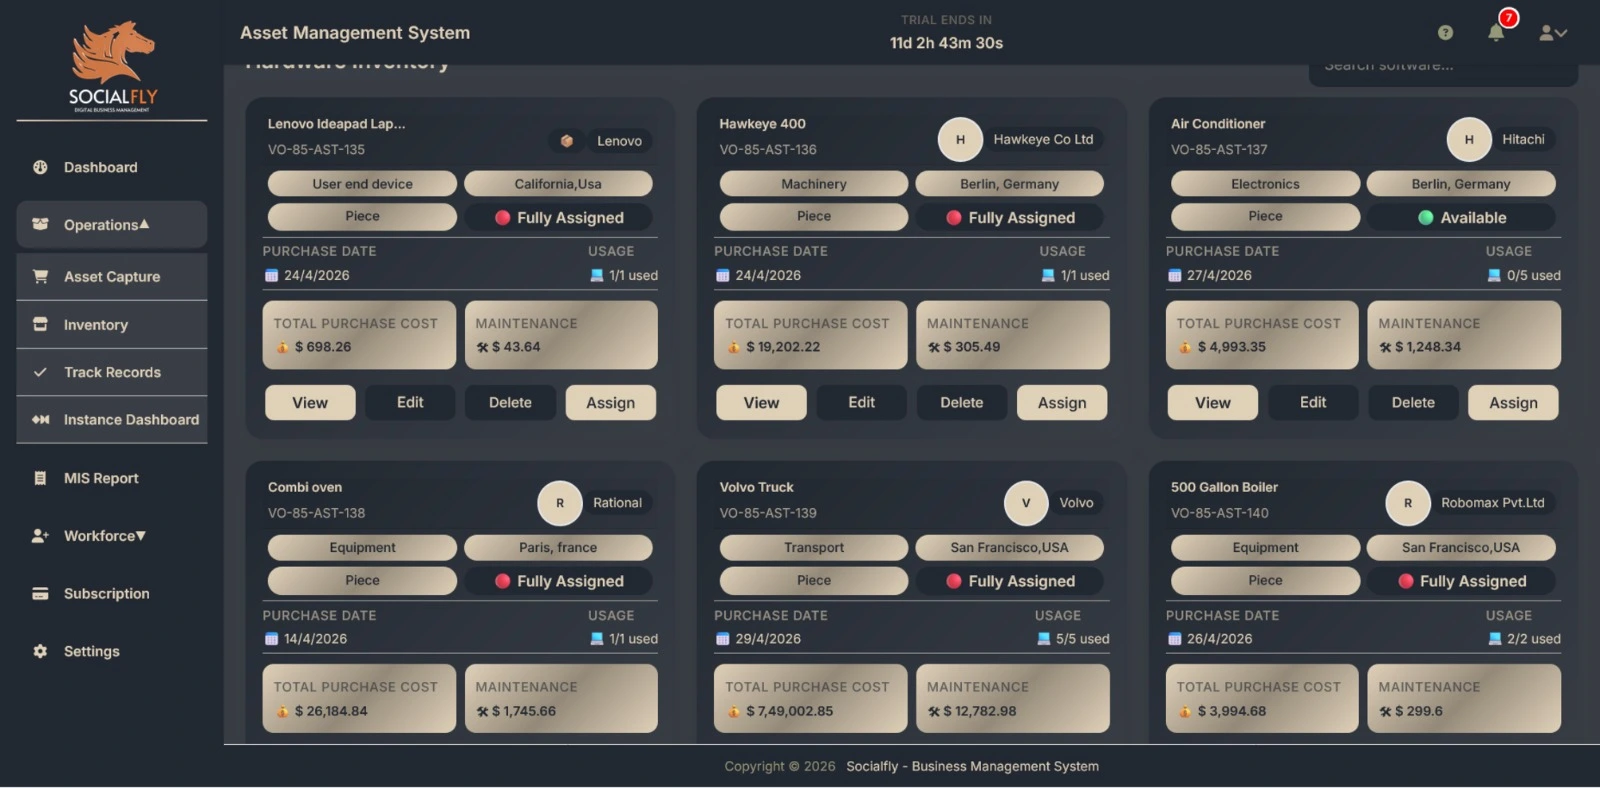
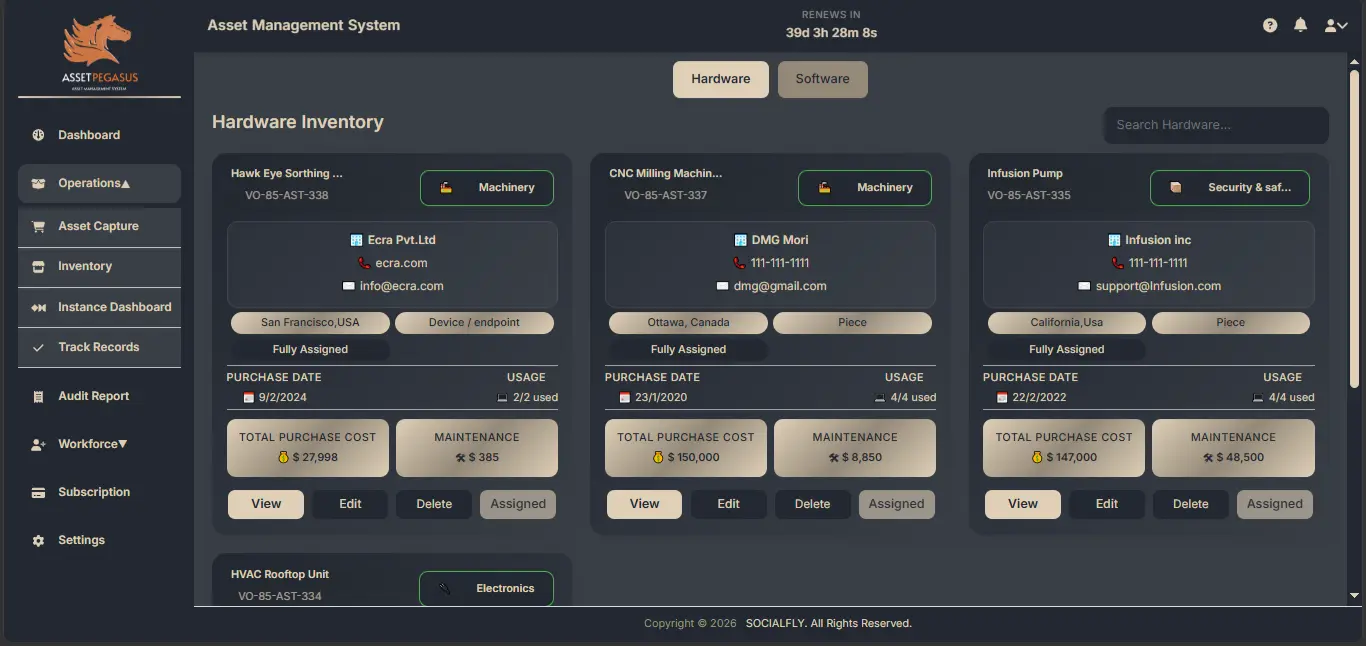
Fixing affiliate issues

diff --git a/backend/controllers/superAdmin/organizationController.js b/backend/controllers/superAdmin/organizationController.js
@@ -1,10 +1,14 @@
 const Organization = require("../../models/Organization");
 const User = require("../../models/User");
-
+const AssetInstance = require("../models/AssetInstance");
 /* ================= GET ALL (WITH USER COUNT) ================= */
 const getAllOrganizations = async (req, res) => {
   try {
     const organizations = await Organization.aggregate([
+      /* =====================================================
+         USERS
+      ===================================================== */
+
       {
         $lookup: {
           from: "users",
@@ -13,29 +17,172 @@ const getAllOrganizations = async (req, res) => {
           as: "users"
         }
       },
+
+      /* =====================================================
+         ASSET INSTANCES
+         
+         Count:
+         - Total instances
+         - Hardware instances
+         - Software instances
+      ===================================================== */
+
+      {
+        $lookup: {
+          from: "assetinstances",
+
+          let: {
+            orgId: "$_id"
+          },
+
+          pipeline: [
+            {
+              $match: {
+                $expr: {
+                  $eq: [
+                    "$organizationId",
+                    "$$orgId"
+                  ]
+                }
+              }
+            },
+
+            {
+              $group: {
+                _id: null,
+
+                total: {
+                  $sum: 1
+                },
+
+                hardware: {
+                  $sum: {
+                    $cond: [
+                      {
+                        $eq: [
+                          "$assetType",
+                          "hardware"
+                        ]
+                      },
+                      1,
+                      0
+                    ]
+                  }
+                },
+
+                software: {
+                  $sum: {
+                    $cond: [
+                      {
+                        $eq: [
+                          "$assetType",
+                          "software"
+                        ]
+                      },
+                      1,
+                      0
+                    ]
+                  }
+                }
+              }
+            }
+          ],
+
+          as: "assetStats"
+        }
+      },
+
+      /* =====================================================
+         COUNTS
+      ===================================================== */
+
       {
         $addFields: {
-          userCount: { $size: "$users" },
+          userCount: {
+            $size: "$users"
+          },
 
-          // 👇 force inactive if no users
+          assetCount: {
+            $ifNull: [
+              {
+                $arrayElemAt: [
+                  "$assetStats.total",
+                  0
+                ]
+              },
+              0
+            ]
+          },
+
+          hardwareAssetCount: {
+            $ifNull: [
+              {
+                $arrayElemAt: [
+                  "$assetStats.hardware",
+                  0
+                ]
+              },
+              0
+            ]
+          },
+
+          softwareAssetCount: {
+            $ifNull: [
+              {
+                $arrayElemAt: [
+                  "$assetStats.software",
+                  0
+                ]
+              },
+              0
+            ]
+          },
+
+          /* =================================================
+             EFFECTIVE ORGANIZATION STATUS
+
+             If organization has no users,
+             force status to inactive.
+          ================================================= */
+
           effectiveStatus: {
             $cond: [
-              { $eq: [{ $size: "$users" }, 0] },
+              {
+                $eq: [
+                  {
+                    $size: "$users"
+                  },
+                  0
+                ]
+              },
               "inactive",
               "$status"
             ]
           }
         }
       },
+
+      /* =====================================================
+         CLEAN RESPONSE
+      ===================================================== */
+
       {
         $project: {
           users: 0,
+          assetStats: 0,
           __v: 0,
-          status: 0 // hide raw status
+          status: 0
         }
       },
+
+      /* =====================================================
+         NEWEST ORGANIZATIONS FIRST
+      ===================================================== */
+
       {
-        $sort: { createdAt: -1 }
+        $sort: {
+          createdAt: -1
+        }
       }
     ]);
 
@@ -43,8 +190,13 @@ const getAllOrganizations = async (req, res) => {
       success: true,
       data: organizations
     });
+
   } catch (error) {
-    console.error("Get Organizations Error:", error);
+    console.error(
+      "Get Organizations Error:",
+      error
+    );
+
     res.status(500).json({
       success: false,
       message: "Error fetching organizations"

diff --git a/frontend/src/Pages/super-admin/Tenant.jsx b/frontend/src/Pages/super-admin/Tenant.jsx
@@ -50,6 +50,7 @@ const handleToggleStatus = async (org) => {
 
   return (
     <>
+    <div className="organization-container">
       <h1 className="page-title">Organizations</h1>
 
       <div className="tenant-grid">
@@ -120,6 +121,7 @@ const handleToggleStatus = async (org) => {
   />
 )}
 
+      </div>
       </div>
     </>
   );

diff --git a/frontend/src/Page_styles/Tenant.css b/frontend/src/Page_styles/Tenant.css
@@ -113,6 +113,12 @@
   color: #fff;
 }
 
+.organization-container { 
+  background: #F7F8FF;
+  padding: 20px;
+  border-radius: 10px;
+  height: 100%;
+}
 /* Responsive */
 @media (max-width: 480px) {
   .tenant-body {
